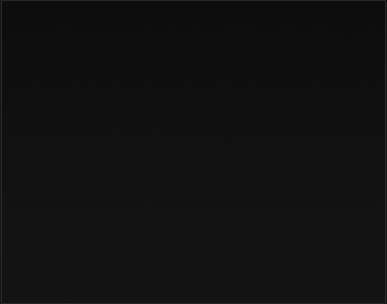
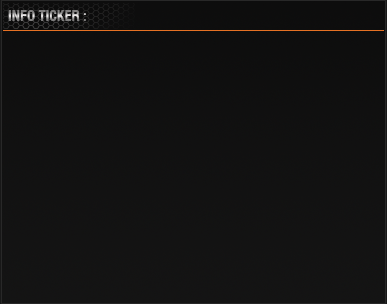
switchbox finished & fixed

Changed region(s): [[0.0, 0.0296, 0.9922, 0.1184]]

diff --git a/css/main.css b/css/main.css
@@ -203,15 +203,6 @@ header {
 	float: left;
 }
 
-.ticker_box_header {
-	background-image: url('../img/ticker_box/ticker_box_header_background.png');
-	background-repeat: no-repeat;
-	width: 387px;
-	height: 31px;
-	float: left;
-	padding-left: 54px;
-}
-
 .ticker_box_navi {
 	float: left;
 	padding-left: 10px;
@@ -226,7 +217,7 @@ header {
 }
 
 .ticker_box_content {
-    padding-top: 32px;
+    padding-top: 8px;
 }
 
 .member_box {

diff --git a/sc_switchbox.php b/sc_switchbox.php
@@ -38,8 +38,8 @@ $show=array(3,1,2,5);
 
 //config of the default include to show on page load & to define the style of the switchbox navigation
 $config=array();
-$config['default']=5; //enter one of the numbers of the show array above to be shown as default on page load
-$config['buttonstyle']='arrows'; //available settings: numbers, names, arrows, dropdown
+$config['default']=3; //enter one of the numbers of the show array above to be shown as default on page load
+$config['buttonstyle']='links'; //available settings: numbers, names, arrows, dropdown
 
 //do not edit anything below here if you are not sure what you are doing there
 $boxes=array();
@@ -75,7 +75,7 @@ if($action=='switch'){
 		$target=$config['default'];
 	}
 	
-	$buttons='<div style="width:100%; text-align: center;">';
+	$buttons='<div style="width:100%; text-align: center; padding-bottom: 12px; padding-left: 38px;">';
 	
 	switch ($config['buttonstyle']) {
     
@@ -96,8 +96,8 @@ if($action=='switch'){
       break;
     
     case 'arrows':
-      $currentposition=array_search($target, $show);
-      $current=$show[$currentposition];
+		$currentposition=array_search($target, $show);
+		$current=$show[$currentposition];
 			$showlength=count($show);
 			if($currentposition==0){
 				$previous=$show[$showlength-1];
@@ -118,12 +118,19 @@ if($action=='switch'){
       break;
     
     case 'dropdown':
-      $buttons='<select onchange="fetch(\'sc_switchbox.php?action=switch&target=\' + this.options[selectedIndex].value,\'switchbox\',\'replace\',\'event\');">';
+		$buttons='<select onchange="fetch(\'sc_switchbox.php?action=switch&target=\' + this.options[selectedIndex].value,\'switchbox\',\'replace\',\'event\');">';
 			foreach($show AS $key){
 			  $buttons.='<option value="'.$key.'">'.$_switchboxlanguage->module[$boxes[$key][1]].'</option>';
 			}
 			echo $buttons.'</select></div>';
       break;
+	  
+	case 'links':
+		foreach($show AS $key){
+			$buttons.='<a href="#" style="padding-right: 10px;" onclick="fetch(\'sc_switchbox.php?action=switch&target='.$key.'\',\'switchbox\',\'replace\',\'event\');">'.$_switchboxlanguage->module[$boxes[$key][1]].'</a>&nbsp;';
+		}
+		echo $buttons.'</div>';
+	break;
   }
 	
 	include($boxes[$target][0]);

diff --git a/languages/de/sc_switchbox.php b/languages/de/sc_switchbox.php
@@ -40,11 +40,11 @@ $language_array = Array(
 
 	'articles'=>'Neuste Artikel',
 	'demo'=>'Neuste Demos'	,
-	'files'=>'Neuste Downloads',
-	'headlines'=>'Neuste Nachrichten',
+	'files'=>'Files',
+	'headlines'=>'Last News',
 	'lastregistered'=>'Zuletzt registriert',
-	'latesttopics'=>'Neuste Forenthemen',
-	'results'=>'Neuste Ergebnisse',
+	'latesttopics'=>'Threads',
+	'results'=>'Scores',
 	'servers'=>'Unsere Server',
 	'short_articles'=>'Artikel',
 	'short_demo'=>'Demos'	,
@@ -52,7 +52,7 @@ $language_array = Array(
 	'short_headlines'=>'Nachrichten',
 	'short_lastregistered'=>'Zuletzt registriert',
 	'short_latesttopics'=>'Forum',
-	'short_results'=>'Ergebnisse',
+	'short_results'=>'Scores',
 	'short_servers'=>'Server',
 	'short_squads'=>'Teams',
 	'short_upcoming'=>'Ereignisse',

diff --git a/index.php b/index.php
@@ -85,15 +85,6 @@ $index_language = $_language->module;
 			</nav>
             <div class="ticker">
 				<div class="ticker_box">
-					<div class="ticker_box_header">
-						<ul class="ticker_navi">
-							<li class="ticker_box_navi">Scores</li>
-							<li class="ticker_box_navi">Files</li>
-							<li class="ticker_box_navi">Threads</li>
-							<li class="ticker_box_navi">Last News</li>
-							<li class="ticker_box_navi">Liga Ticker</li>
-						</ul>
-					</div>
 					<div class="ticker_box_content">
 						<?php include("sc_switchbox.php"); ?>
 					</div>
